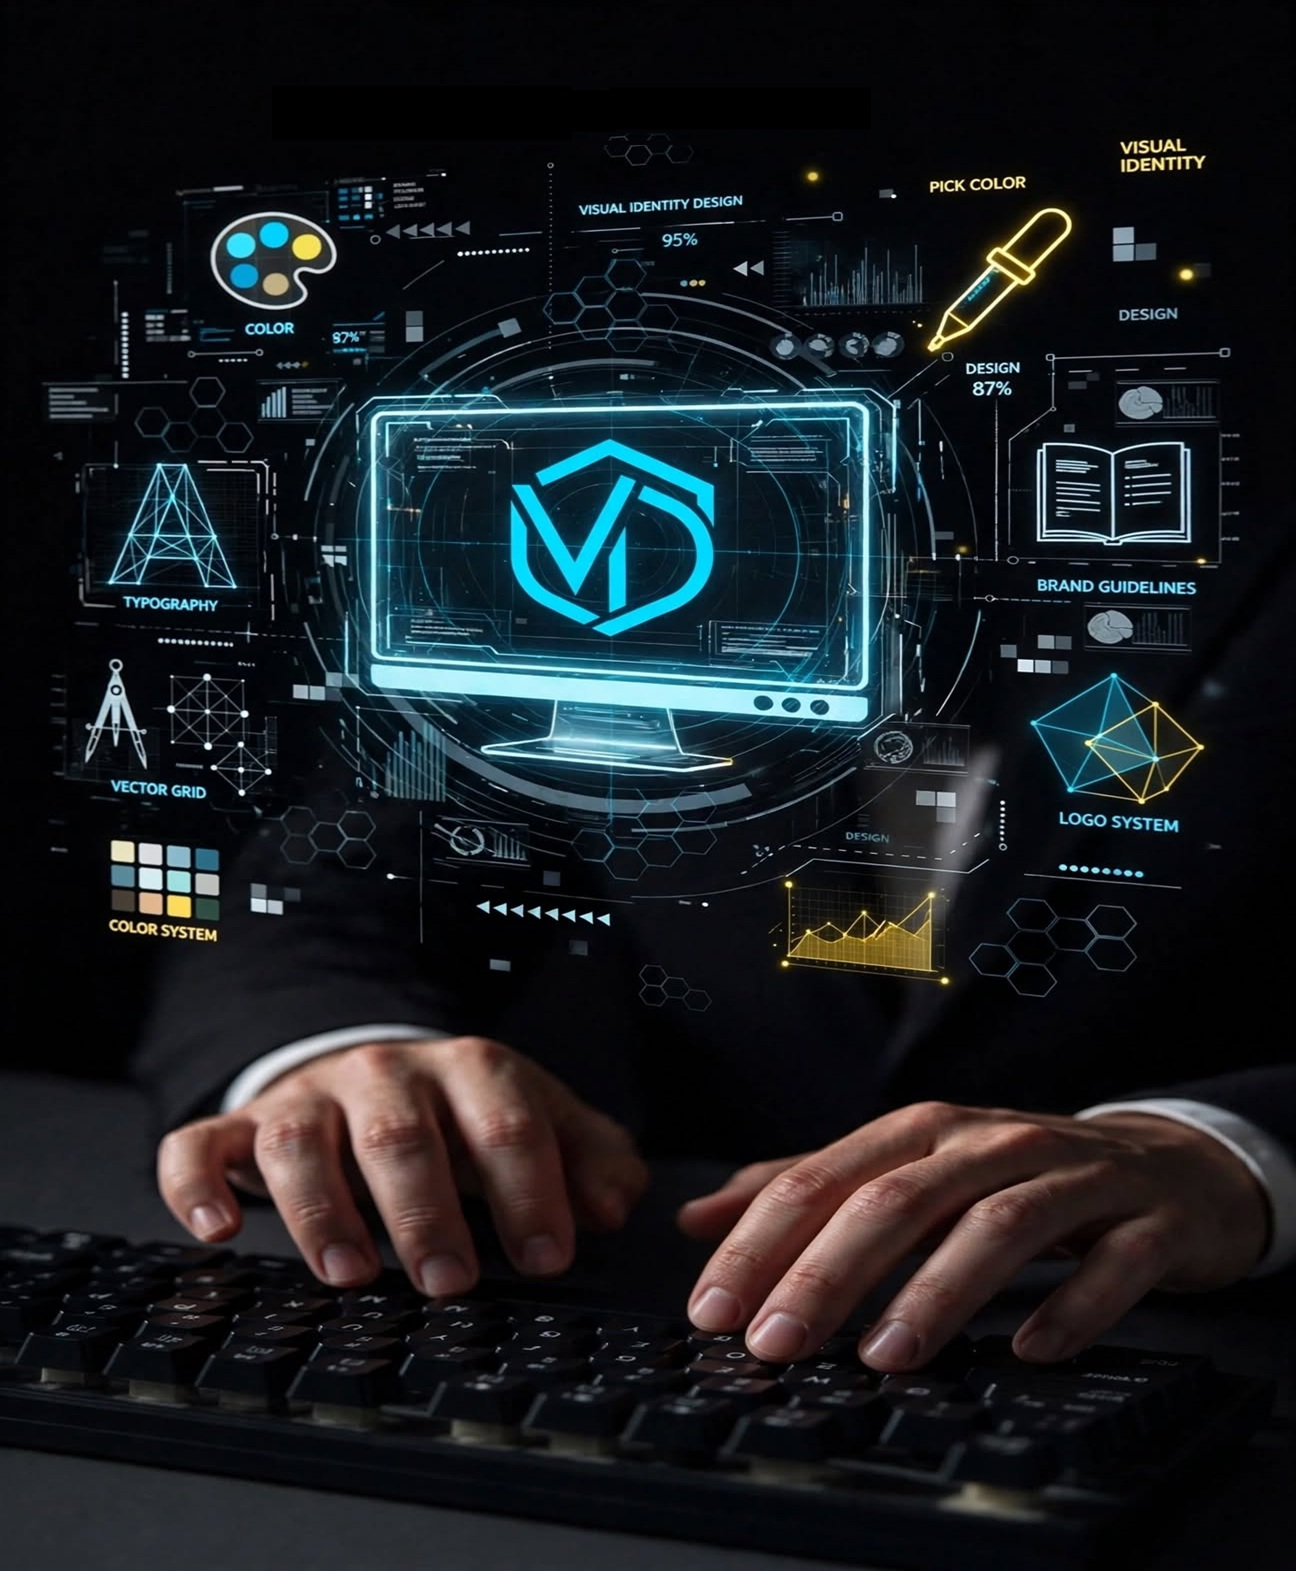
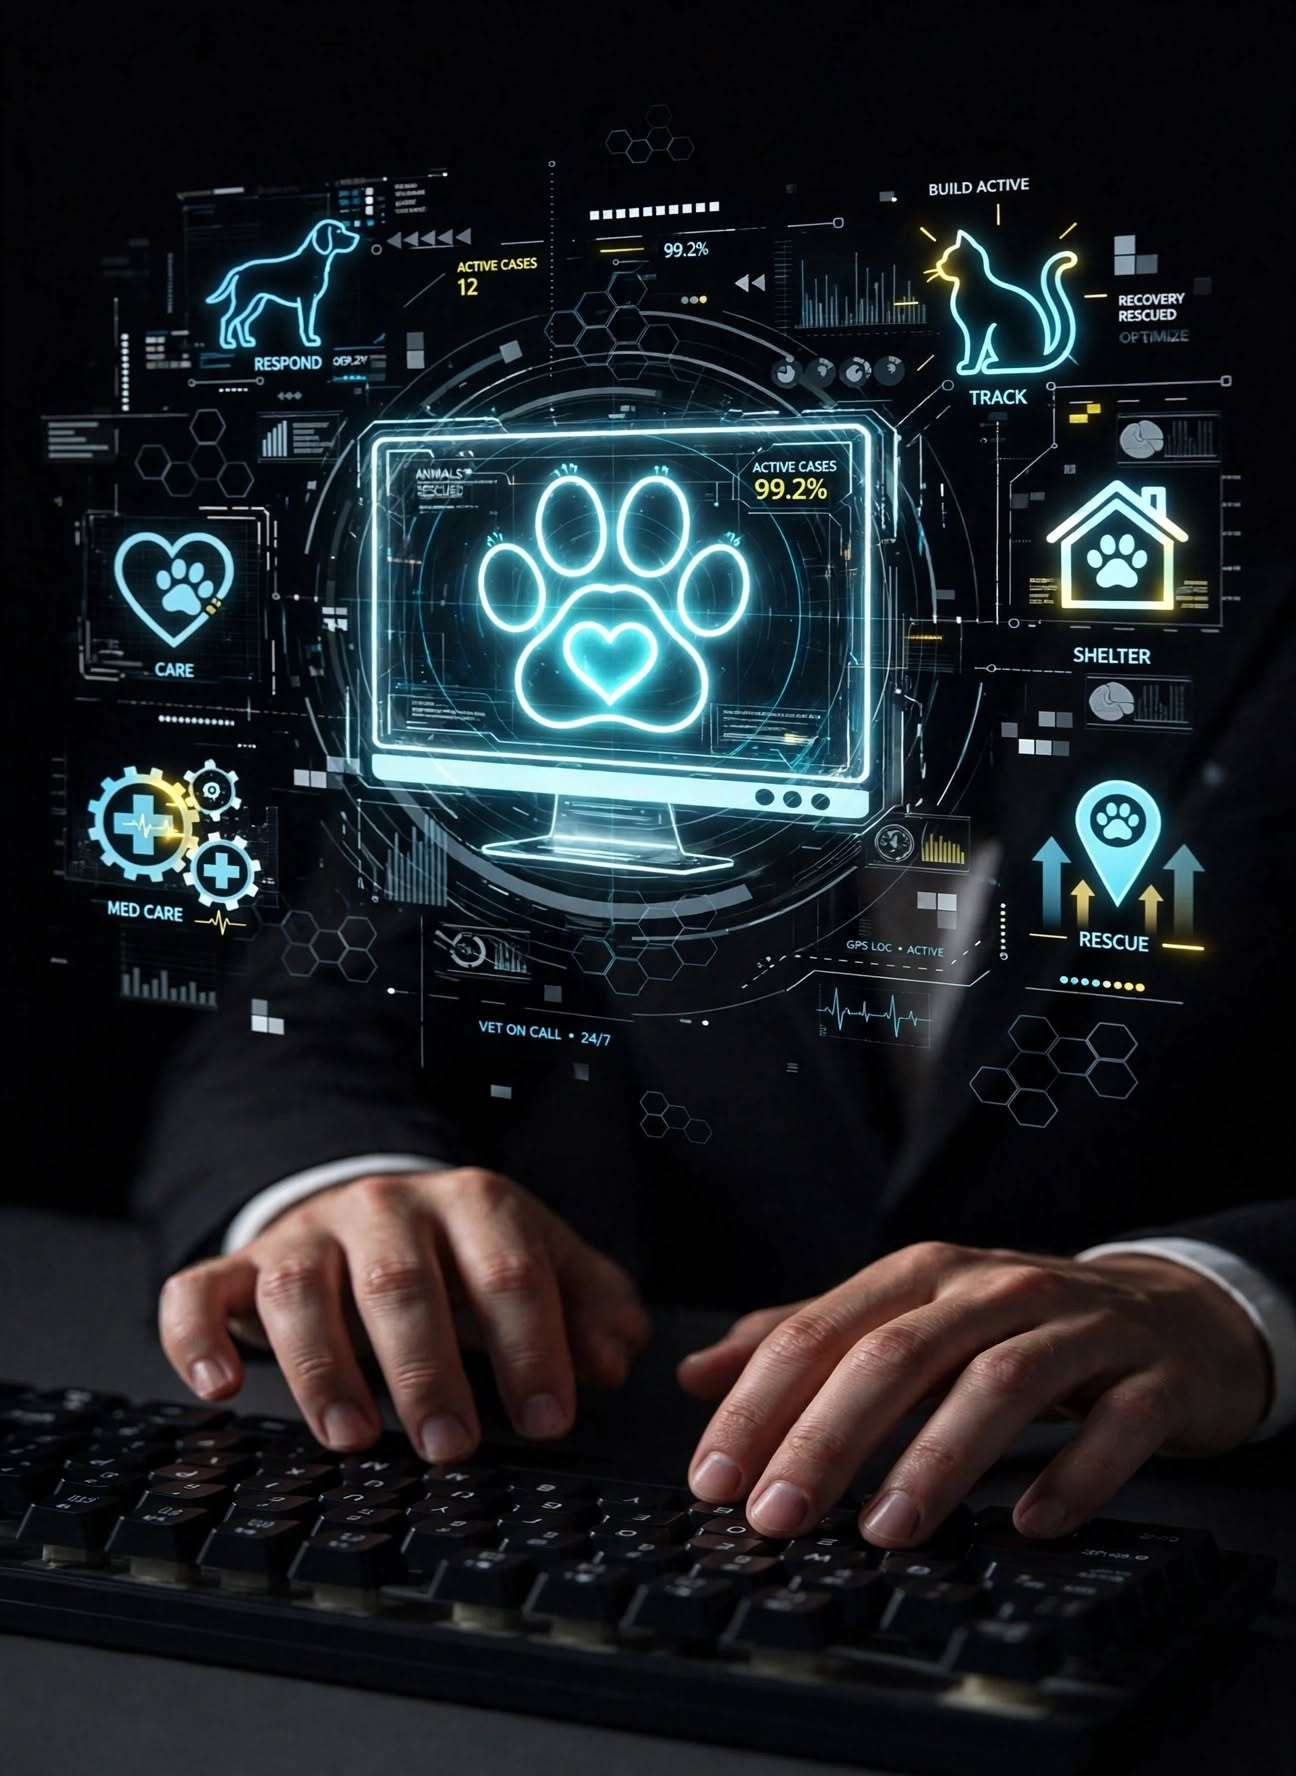
feat: Rescate Animal gallery with real images
- Updated base/hover images from animal.jpg
- Added 5 real project images from Rescate folder (project1-5.jpg)
- Updated gallery-design-4.html carousel with 5 projects
- Added i18n keys ES/EN for new cards, demos, images
- Projects: Abuelimoncito, Anika, Danger, Lucky Belky, La Pandilla

diff --git a/js/i18n.js b/js/i18n.js
@@ -123,6 +123,10 @@ export const I18N = {
         galdesign2_card1: 'Maquetación de catálogo corporativo: arquitectura de información, jerarquía tipográfica y sistema de navegación visual.',
         galdesign3_card1: 'Diseño de interfaz para panel de métricas: visualización de datos, navegación modular y design system coherente.',
         galdesign4_card1: 'Identidad visual y piezas gráficas para campaña de adopción responsable: cartelería, redes sociales y merchandising para refugio local.',
+        galdesign4_card2: 'Diseño de material gráfico para difusión de caso de adopción: flyers, redes sociales y material impreso.',
+        galdesign4_card3: 'Campaña de concienciación sobre abandono animal: identidad visual, cartelería urbana y piezas digitales.',
+        galdesign4_card4: 'Material gráfico para historia de adopción exitosa: flyers, posts redes y material para eventos de refugio.',
+        galdesign4_card5: 'Identidad visual para grupo de rescate: logo, aplicaciones, señalética y material promocional para eventos.',
         galphoto1_card1: 'Retratos ejecutivos para equipo directivo: iluminación de estudio, dirección de pose y retoque natural.',
         galphoto2_card1: 'Paisajes de alta montaña: composición panorámica, hora dorada y gestión de rango dinámico en RAW.',
         galphoto3_card1: 'Packshots para línea de cosmética: iluminación de producto, gestión de reflejos en vidrio y consistencia visual entre referencias.',
@@ -139,6 +143,8 @@ export const I18N = {
         galdesign4_demo_1: 'Ver demo — Rescate Animal — proyecto 1',
         galdesign4_demo_2: 'Ver demo — Rescate Animal — proyecto 2',
         galdesign4_demo_3: 'Ver demo — Rescate Animal — proyecto 3',
+        galdesign4_demo_4: 'Ver demo — Rescate Animal — proyecto 4',
+        galdesign4_demo_5: 'Ver demo — Rescate Animal — proyecto 5',
         galphoto1_demo_1: 'Ver demo — Retrato — proyecto 1',
         galphoto1_demo_2: 'Ver demo — Retrato — proyecto 2',
         galphoto1_demo_3: 'Ver demo — Retrato — proyecto 3',
@@ -158,9 +164,11 @@ export const I18N = {
         galdesign3_img_1: 'UI / UX — proyecto 1',
         galdesign3_img_2: 'UI / UX — proyecto 2',
         galdesign3_img_3: 'UI / UX — proyecto 3',
-        galdesign4_img_1: 'Rescate Animal — proyecto 1',
-        galdesign4_img_2: 'Rescate Animal — proyecto 2',
-        galdesign4_img_3: 'Rescate Animal — proyecto 3',
+        galdesign4_img_1: 'Rescate Animal — Abuelimoncito',
+        galdesign4_img_2: 'Rescate Animal — Anika',
+        galdesign4_img_3: 'Rescate Animal — Danger',
+        galdesign4_img_4: 'Rescate Animal — Lucky Belky',
+        galdesign4_img_5: 'Rescate Animal — La Pandilla',
         galphoto1_img_1: 'Retrato — proyecto 1',
         galphoto1_img_2: 'Retrato — proyecto 2',
         galphoto1_img_3: 'Retrato — proyecto 3',
@@ -336,6 +344,10 @@ export const I18N = {
         galdesign2_card1: 'Corporate catalog layout: information architecture, typographic hierarchy and visual navigation system.',
         galdesign3_card1: 'Analytics dashboard interface: data visualization, modular navigation and coherent design system.',
         galdesign4_card1: 'Visual identity and graphic pieces for responsible adoption campaign: signage, social media and merchandise for local shelter.',
+        galdesign4_card2: 'Graphic material for adoption case promotion: flyers, social media and printed materials.',
+        galdesign4_card3: 'Awareness campaign on animal abandonment: visual identity, urban signage and digital pieces.',
+        galdesign4_card4: 'Graphic material for successful adoption story: flyers, social posts and shelter event materials.',
+        galdesign4_card5: 'Visual identity for rescue group: logo, applications, signage and promotional materials for events.',
         galphoto1_card1: 'Executive portraits for leadership team: studio lighting, pose direction and natural retouching.',
         galphoto2_card1: 'High mountain landscapes: panoramic composition, golden hour and dynamic range management in RAW.',
         galphoto3_card1: 'Premium cosmetics packshots: product lighting, glass reflection management and visual consistency across references.',
@@ -352,6 +364,8 @@ export const I18N = {
         galdesign4_demo_1: 'View demo — Animal Rescue — project 1',
         galdesign4_demo_2: 'View demo — Animal Rescue — project 2',
         galdesign4_demo_3: 'View demo — Animal Rescue — project 3',
+        galdesign4_demo_4: 'View demo — Animal Rescue — project 4',
+        galdesign4_demo_5: 'View demo — Animal Rescue — project 5',
         galphoto1_demo_1: 'View demo — Portrait — project 1',
         galphoto1_demo_2: 'View demo — Portrait — project 2',
         galphoto1_demo_3: 'View demo — Portrait — project 3',
@@ -371,9 +385,11 @@ export const I18N = {
         galdesign3_img_1: 'UI / UX — project 1',
         galdesign3_img_2: 'UI / UX — project 2',
         galdesign3_img_3: 'UI / UX — project 3',
-        galdesign4_img_1: 'Animal Rescue — project 1',
-        galdesign4_img_2: 'Animal Rescue — project 2',
-        galdesign4_img_3: 'Animal Rescue — project 3',
+        galdesign4_img_1: 'Animal Rescue — Abuelimoncito',
+        galdesign4_img_2: 'Animal Rescue — Anika',
+        galdesign4_img_3: 'Animal Rescue — Danger',
+        galdesign4_img_4: 'Animal Rescue — Lucky Belky',
+        galdesign4_img_5: 'Animal Rescue — La Pandilla',
         galphoto1_img_1: 'Portrait — project 1',
         galphoto1_img_2: 'Portrait — project 2',
         galphoto1_img_3: 'Portrait — project 3',

diff --git a/gallery-design-4.html b/gallery-design-4.html
@@ -91,20 +91,32 @@
                 <div class="gallery__track">
                     <a href="#" target="_blank" rel="noopener noreferrer" class="gallery__item__link" aria-label="Ver demo — Rescate Animal — proyecto 1" data-i18n-attr="aria-label" data-i18n-key="galdesign4_demo_1">
                         <figure class="gallery__item">
-                            <img src="assets/IMG/design/rescate-animal/base.jpg" alt="Rescate Animal — proyecto 1" data-i18n-attr="alt" data-i18n-key="galdesign4_img_1" width="400" height="300" loading="lazy">
-                            <figcaption class="gallery__item__desc"><strong>Campaña Adopta</strong><span data-i18n="galdesign4_card1">Identidad visual y piezas gráficas para campaña de adopción responsable: cartelería, redes sociales y merchandising para refugio local.</span></figcaption>
+                            <img src="assets/IMG/design/rescate-animal/project1.jpg" alt="Rescate Animal — Abuelimoncito" data-i18n-attr="alt" data-i18n-key="galdesign4_img_1" width="400" height="300" loading="lazy">
+                            <figcaption class="gallery__item__desc"><strong>Abuelimoncito</strong><span data-i18n="galdesign4_card1">Identidad visual y piezas gráficas para campaña de adopción responsable: cartelería, redes sociales y merchandising para refugio local.</span></figcaption>
                         </figure>
                     </a>
                     <a href="#" target="_blank" rel="noopener noreferrer" class="gallery__item__link" aria-label="Ver demo — Rescate Animal — proyecto 2" data-i18n-attr="aria-label" data-i18n-key="galdesign4_demo_2">
                         <figure class="gallery__item">
-                            <img src="assets/IMG/design/rescate-animal/hover.jpg" alt="Rescate Animal — proyecto 2" data-i18n-attr="alt" data-i18n-key="galdesign4_img_2" width="400" height="300" loading="lazy">
-                            <figcaption class="gallery__item__desc" data-i18n="g_soon">Proyecto — En desarrollo, publicación próximamente</figcaption>
+                            <img src="assets/IMG/design/rescate-animal/project2.jpg" alt="Rescate Animal — Anika" data-i18n-attr="alt" data-i18n-key="galdesign4_img_2" width="400" height="300" loading="lazy">
+                            <figcaption class="gallery__item__desc"><strong>Anika</strong><span data-i18n="galdesign4_card2">Diseño de material gráfico para difusión de caso de adopción: flyers, redes sociales y material impreso.</span></figcaption>
                         </figure>
                     </a>
                     <a href="#" target="_blank" rel="noopener noreferrer" class="gallery__item__link" aria-label="Ver demo — Rescate Animal — proyecto 3" data-i18n-attr="aria-label" data-i18n-key="galdesign4_demo_3">
                         <figure class="gallery__item">
-                            <img src="assets/IMG/design/rescate-animal/base.jpg" alt="Rescate Animal — proyecto 3" data-i18n-attr="alt" data-i18n-key="galdesign4_img_3" width="400" height="300" loading="lazy">
-                            <figcaption class="gallery__item__desc" data-i18n="g_soon">Proyecto — En desarrollo, publicación próximamente</figcaption>
+                            <img src="assets/IMG/design/rescate-animal/project3.jpg" alt="Rescate Animal — Danger" data-i18n-attr="alt" data-i18n-key="galdesign4_img_3" width="400" height="300" loading="lazy">
+                            <figcaption class="gallery__item__desc"><strong>Danger</strong><span data-i18n="galdesign4_card3">Campaña de concienciación sobre abandono animal: identidad visual, cartelería urbana y piezas digitales.</span></figcaption>
+                        </figure>
+                    </a>
+                    <a href="#" target="_blank" rel="noopener noreferrer" class="gallery__item__link" aria-label="Ver demo — Rescate Animal — proyecto 4" data-i18n-attr="aria-label" data-i18n-key="galdesign4_demo_4">
+                        <figure class="gallery__item">
+                            <img src="assets/IMG/design/rescate-animal/project4.jpg" alt="Rescate Animal — Lucky Belky" data-i18n-attr="alt" data-i18n-key="galdesign4_img_4" width="400" height="300" loading="lazy">
+                            <figcaption class="gallery__item__desc"><strong>Lucky Belky</strong><span data-i18n="galdesign4_card4">Material gráfico para historia de adopción exitosa: flyers, posts redes y material para eventos de refugio.</span></figcaption>
+                        </figure>
+                    </a>
+                    <a href="#" target="_blank" rel="noopener noreferrer" class="gallery__item__link" aria-label="Ver demo — Rescate Animal — proyecto 5" data-i18n-attr="aria-label" data-i18n-key="galdesign4_demo_5">
+                        <figure class="gallery__item">
+                            <img src="assets/IMG/design/rescate-animal/project5.jpg" alt="Rescate Animal — La Pandilla" data-i18n-attr="alt" data-i18n-key="galdesign4_img_5" width="400" height="300" loading="lazy">
+                            <figcaption class="gallery__item__desc"><strong>La Pandilla</strong><span data-i18n="galdesign4_card5">Identidad visual para grupo de rescate: logo, aplicaciones, señalética y material promocional para eventos.</span></figcaption>
                         </figure>
                     </a>
                 </div>
